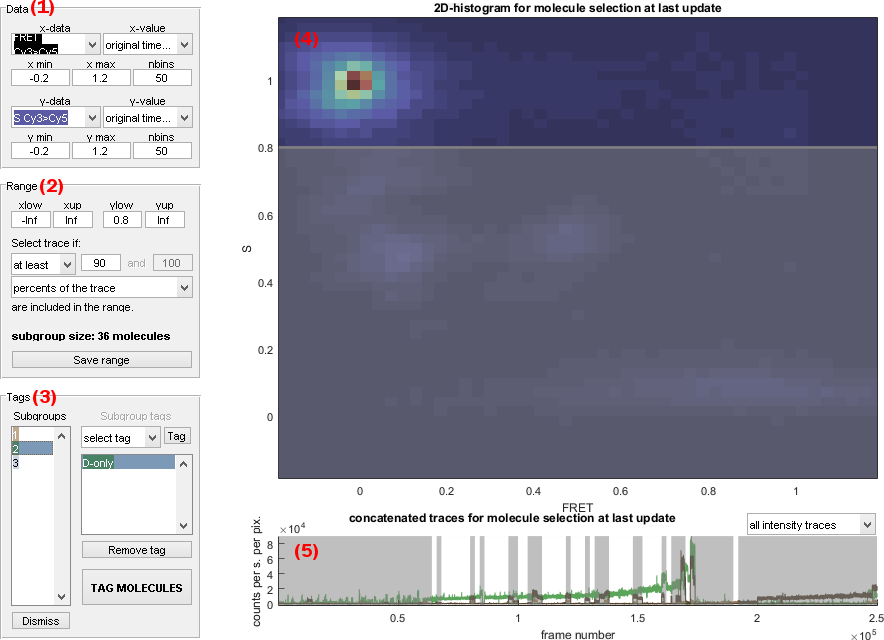
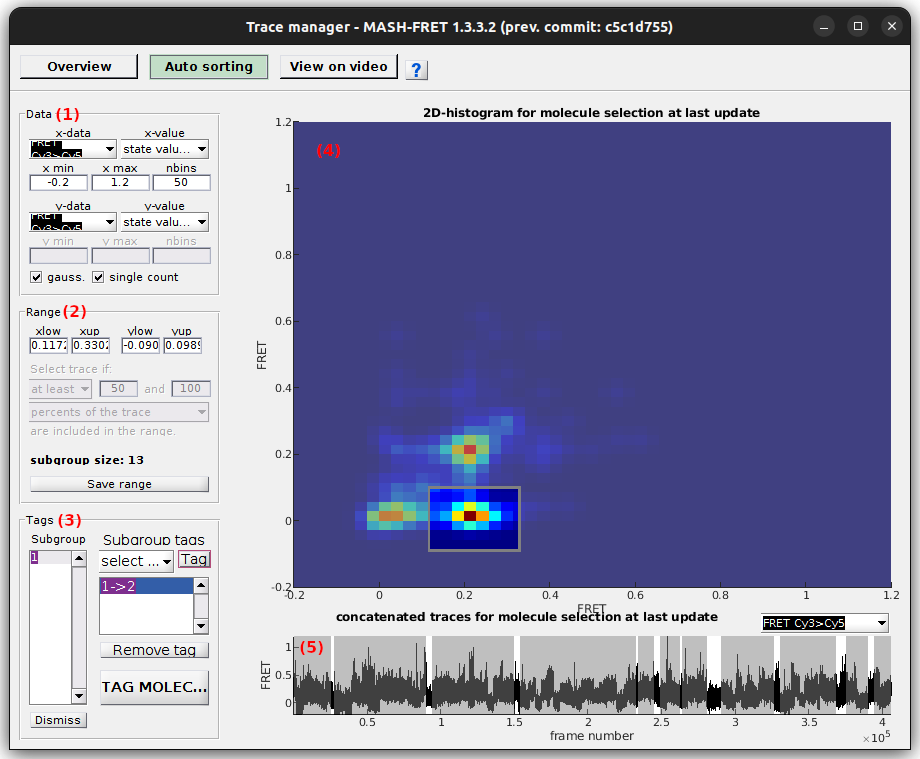
update doc with TM options `gauss` and `single count`

diff --git a/docs/trace-processing/functionalities/tm-automatic-sorting.md b/docs/trace-processing/functionalities/tm-automatic-sorting.md
@@ -68,6 +68,10 @@ For 1D-sorting, menu **(f)** must be set to `none`.
 
 Data are sorted into bins defined by **(c)** (lowest limit), **(d)** (highest limit) and **(e)** (bin size) for the x-axis, and by **(h)**, **(i)** and **(j)** for the y-axis.
 
+Data can be counted as one count per molecule in the 2D-histogram by activation option **(l)**.
+
+2D-histograms can be displayed with Gaussian filtering by activating option **(k)**.
+
 Molecule sorting can be performed on full-length data-time traces or state trajectories, but also on different descriptive statistics or state data.
 The type of data sets can be selected in menu **(b)** (x-axis) and **(g)** (y-axis) and include:
 * `original time traces (frame-wise)` for full-length data-time traces
